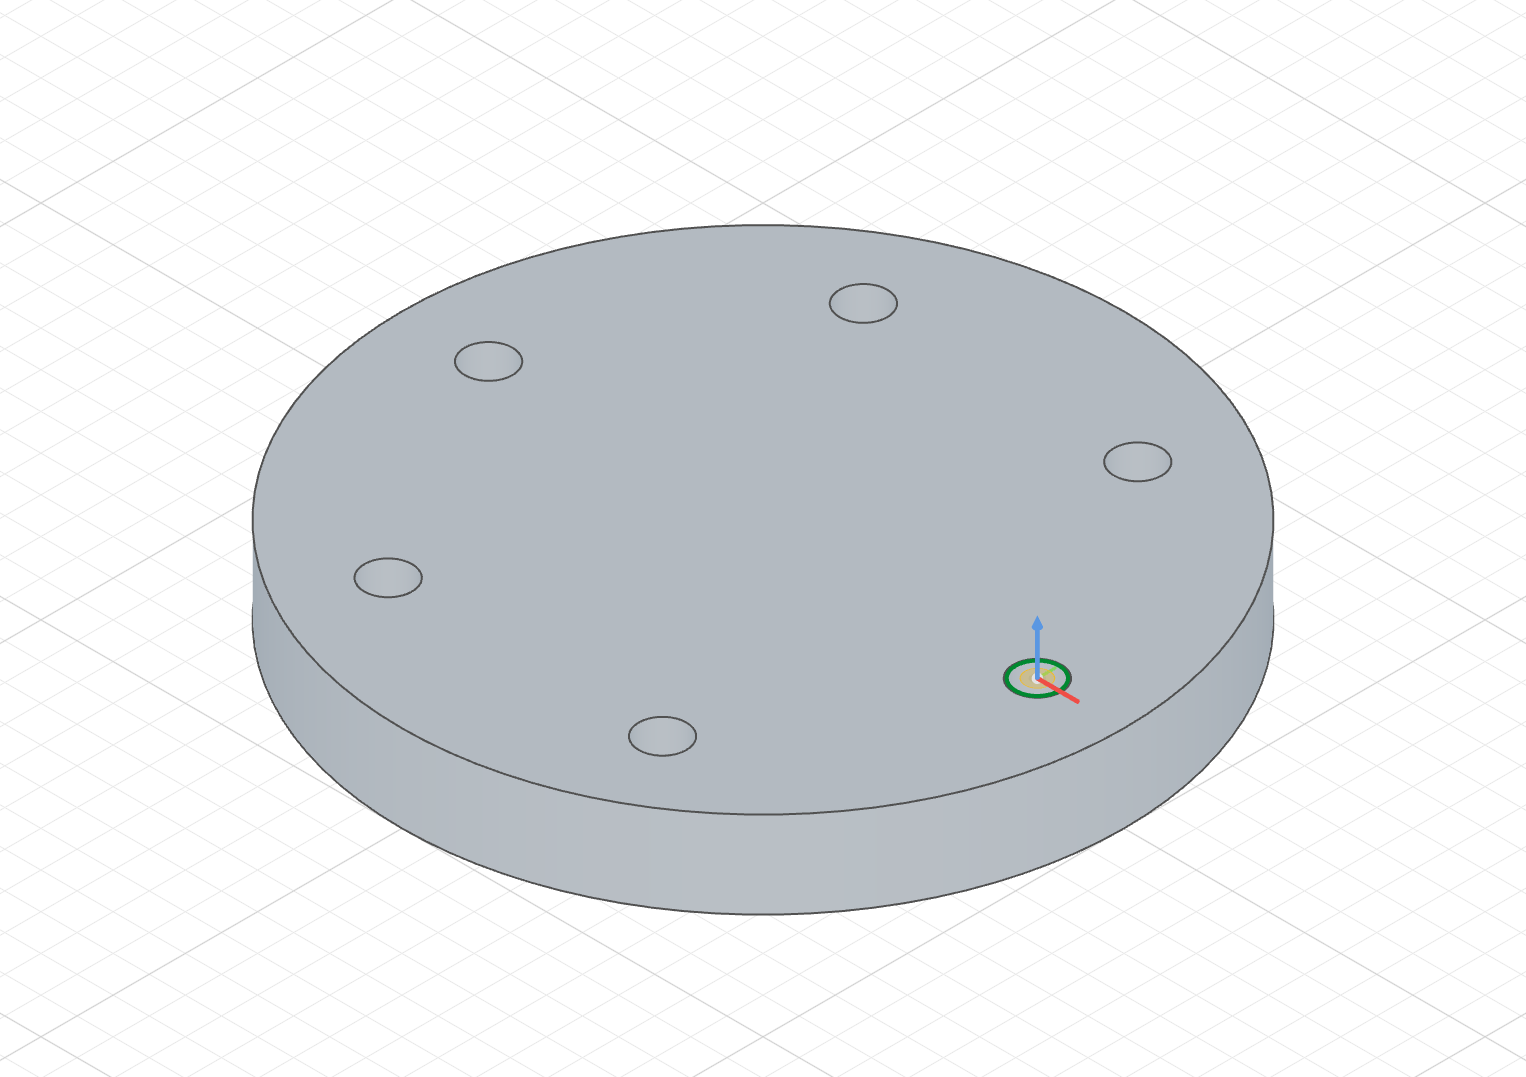
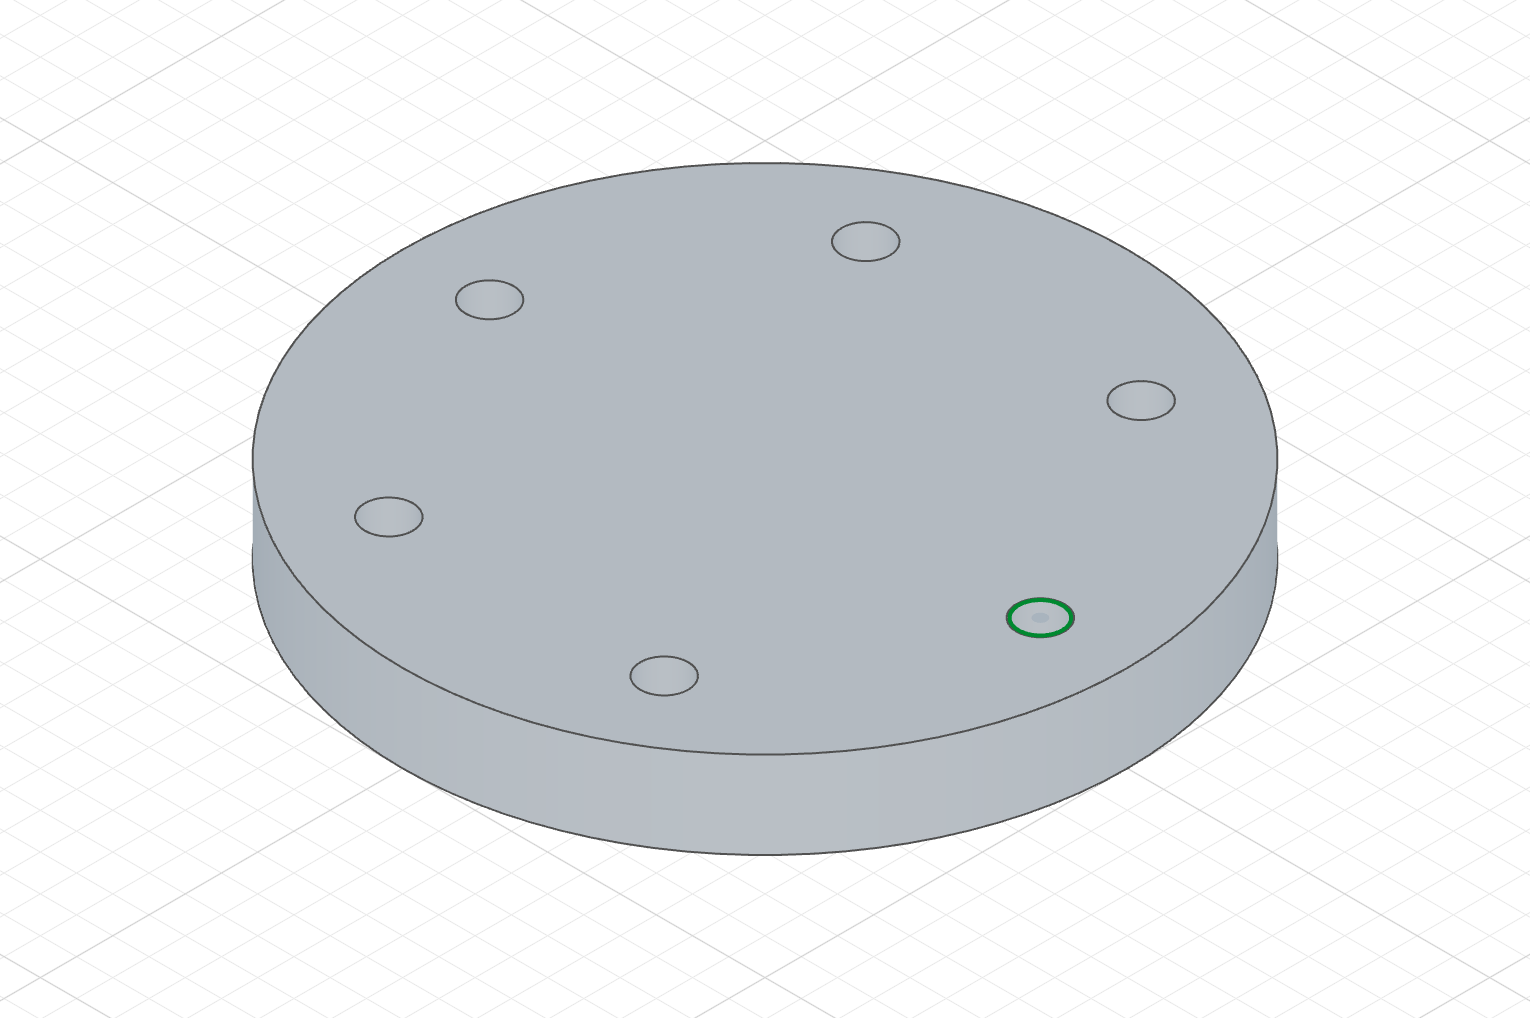
docs(hole): document fastening a clearance hole to another solid and retake the hole screenshots

diff --git a/website/docs/3d-operations/_examples/hole-fasten-tip.js b/website/docs/3d-operations/_examples/hole-fasten-tip.js
@@ -1,0 +1,57 @@
+// @screenshot view iso-ftr hidePositional
+import { sketch, line, point, extrude, hole } from 'fluidcad/core';
+import { coincident, distance, fix, horizontal, vertical } from 'fluidcad/constraints';
+
+// A base block, 40 × 15 and 20 thick: the solid the screw threads into.
+// Both blocks here are the rear half of a joint: their front face runs
+// through the hole axis, so the picture shows the two bores in section.
+sketch("xy", () => {
+    const b = line([-20, 0], [20, 0]);
+    const r = line([20, 0], [20, 15]);
+    const t = line([20, 15], [-20, 15]);
+    const l = line([-20, 15], [-20, 0]);
+    coincident(b.end(), r.start());
+    coincident(r.end(), t.start());
+    coincident(t.end(), l.start());
+    coincident(l.end(), b.start());
+    horizontal(b);
+    vertical(r);
+    horizontal(t);
+    vertical(l);
+    fix(b.start(), [-20, 0]);
+    distance(b.start(), b.end(), 40);
+    distance(r.start(), r.end(), 15);
+});
+const base = extrude(20);
+
+// An 8 mm cover on top of the base. `.new()` keeps it a solid of its own.
+sketch(base.endFaces(), () => {
+    const b = line([-20, 0], [20, 0]);
+    const r = line([20, 0], [20, 15]);
+    const t = line([20, 15], [-20, 15]);
+    const l = line([-20, 15], [-20, 0]);
+    coincident(b.end(), r.start());
+    coincident(r.end(), t.start());
+    coincident(t.end(), l.start());
+    coincident(l.end(), b.start());
+    horizontal(b);
+    vertical(r);
+    horizontal(t);
+    vertical(l);
+    fix(b.start(), [-20, 0]);
+    distance(b.start(), b.end(), 40);
+    distance(r.start(), r.end(), 15);
+});
+const cover = extrude(8).new();
+
+// One point on the cover's top face marks the screw.
+const seat = sketch(cover.endFaces(), () => {
+    const p = point([0, 0]);
+    fix(p, [0, 0]);
+    return { p };
+});
+
+// The tapped hole is 12 deep to the shoulder, measured from the base's top
+// face, with the 118° point of a standard drill below it. `null` in the
+// pitch position keeps the coarse pitch for the size.
+hole('M6', seat.geometries.p).fasten(base, null, 12, 118);

diff --git a/website/docs/3d-operations/_examples/hole-fasten-blind.js b/website/docs/3d-operations/_examples/hole-fasten-blind.js
@@ -1,0 +1,57 @@
+// @screenshot view iso-ftr hidePositional
+import { sketch, line, point, extrude, hole } from 'fluidcad/core';
+import { coincident, distance, fix, horizontal, vertical } from 'fluidcad/constraints';
+
+// A base block, 40 × 15 and 20 thick: the solid the screw threads into.
+// Both blocks here are the rear half of a joint: their front face runs
+// through the hole axis, so the picture shows the two bores in section.
+sketch("xy", () => {
+    const b = line([-20, 0], [20, 0]);
+    const r = line([20, 0], [20, 15]);
+    const t = line([20, 15], [-20, 15]);
+    const l = line([-20, 15], [-20, 0]);
+    coincident(b.end(), r.start());
+    coincident(r.end(), t.start());
+    coincident(t.end(), l.start());
+    coincident(l.end(), b.start());
+    horizontal(b);
+    vertical(r);
+    horizontal(t);
+    vertical(l);
+    fix(b.start(), [-20, 0]);
+    distance(b.start(), b.end(), 40);
+    distance(r.start(), r.end(), 15);
+});
+const base = extrude(20);
+
+// An 8 mm cover on top of the base. `.new()` keeps it a solid of its own.
+sketch(base.endFaces(), () => {
+    const b = line([-20, 0], [20, 0]);
+    const r = line([20, 0], [20, 15]);
+    const t = line([20, 15], [-20, 15]);
+    const l = line([-20, 15], [-20, 0]);
+    coincident(b.end(), r.start());
+    coincident(r.end(), t.start());
+    coincident(t.end(), l.start());
+    coincident(l.end(), b.start());
+    horizontal(b);
+    vertical(r);
+    horizontal(t);
+    vertical(l);
+    fix(b.start(), [-20, 0]);
+    distance(b.start(), b.end(), 40);
+    distance(r.start(), r.end(), 15);
+});
+const cover = extrude(8).new();
+
+// One point on the cover's top face marks the screw.
+const seat = sketch(cover.endFaces(), () => {
+    const p = point([0, 0]);
+    fix(p, [0, 0]);
+    return { p };
+});
+
+// The same clearance hole. The tapped hole now stops 12 into the base,
+// measured from the base's top face, with a flat bottom. `null` in the
+// pitch position keeps the coarse pitch for the size.
+hole('M6', seat.geometries.p).fasten(base, null, 12);

diff --git a/website/docs/3d-operations/_examples/hole-fasten.js b/website/docs/3d-operations/_examples/hole-fasten.js
@@ -1,0 +1,57 @@
+// @screenshot view iso-ftr hidePositional
+import { sketch, line, point, extrude, hole } from 'fluidcad/core';
+import { coincident, distance, fix, horizontal, vertical } from 'fluidcad/constraints';
+
+// A base block, 40 × 15 and 20 thick: the solid the screw threads into.
+// Both blocks here are the rear half of a joint: their front face runs
+// through the hole axis, so the picture shows the two bores in section.
+sketch("xy", () => {
+    const b = line([-20, 0], [20, 0]);
+    const r = line([20, 0], [20, 15]);
+    const t = line([20, 15], [-20, 15]);
+    const l = line([-20, 15], [-20, 0]);
+    coincident(b.end(), r.start());
+    coincident(r.end(), t.start());
+    coincident(t.end(), l.start());
+    coincident(l.end(), b.start());
+    horizontal(b);
+    vertical(r);
+    horizontal(t);
+    vertical(l);
+    fix(b.start(), [-20, 0]);
+    distance(b.start(), b.end(), 40);
+    distance(r.start(), r.end(), 15);
+});
+const base = extrude(20);
+
+// An 8 mm cover on top of the base. `.new()` keeps it a solid of its own.
+sketch(base.endFaces(), () => {
+    const b = line([-20, 0], [20, 0]);
+    const r = line([20, 0], [20, 15]);
+    const t = line([20, 15], [-20, 15]);
+    const l = line([-20, 15], [-20, 0]);
+    coincident(b.end(), r.start());
+    coincident(r.end(), t.start());
+    coincident(t.end(), l.start());
+    coincident(l.end(), b.start());
+    horizontal(b);
+    vertical(r);
+    horizontal(t);
+    vertical(l);
+    fix(b.start(), [-20, 0]);
+    distance(b.start(), b.end(), 40);
+    distance(r.start(), r.end(), 15);
+});
+const cover = extrude(8).new();
+
+// One point on the cover's top face marks the screw.
+const seat = sketch(cover.endFaces(), () => {
+    const p = point([0, 0]);
+    fix(p, [0, 0]);
+    return { p };
+});
+
+// One statement, two holes. The cover takes the M6 clearance hole (Ø6.6).
+// The base it fastens to takes the M6 tapped hole on the same axis: Ø5,
+// the tap drill for M6 × 1, through the whole block.
+hole('M6', seat.geometries.p).fasten(base);

diff --git a/lib/core/hole.ts b/lib/core/hole.ts
@@ -28,7 +28,9 @@ interface HoleFunction {
    * hole (`.clearance('close' | 'normal' | 'loose')`, normal fit by default)
    * or a tap drill (`.tapped()` for the coarse pitch, `.tapped(0.75)` for a
    * fine one). `.counterbore()` and `.countersink()` without values read the
-   * socket-head and flat-head tables for that size. Threads are not modelled
+   * socket-head and flat-head tables for that size. `.fasten(solid)` on a
+   * clearance hole cuts the matching tapped hole into the solid the fastener
+   * threads into. Threads are not modelled
    * yet; the size and pitch stay in the statement for a later thread feature.
    * @param size - A metric or inch fastener size label
    * @param placements - One or more connectors, sketch points or anchored vertices

diff --git a/lib/core/interfaces.ts b/lib/core/interfaces.ts
@@ -1361,7 +1361,7 @@ export interface IHole extends ISceneObject {
   depth(distance: number, tipAngle?: number): this;
 
   /**
-   * Experimental. Names the solid this clearance hole fastens to: that solid
+   * Names the solid this clearance hole fastens to: that solid
    * gets the matching tapped hole on the same axis, cut at the tap-drill
    * diameter for the hole's fastener size. It opens on whichever face the
    * axis meets first and runs through the whole solid, or to a blind depth

diff --git a/llm-docs/api/hole.md b/llm-docs/api/hole.md
@@ -1,7 +1,7 @@
 ---
 id: api/hole
 title: hole(size, ...placements)
-summary: Cuts drilled, clearance or tapped fastener holes at connectors, sketch points or face/edge anchors, with optional counterbore or countersink and blind or through-all termination.
+summary: Cuts drilled, clearance or tapped fastener holes at connectors, sketch points or face/edge anchors, with optional counterbore or countersink, blind or through-all termination, and .fasten() to tap the mating solid of a clearance hole.
 tags: [api, 3d, solid]
 symbols: [hole]
 seeAlso: [api/connector, api/point, api/repeat, api/cut]
@@ -32,10 +32,21 @@ exported from a sketch (`s.geometries.c.center()`, `s.geometries.p` for a
   (a numeric size needs explicit values).
 - `.depth(distance, tipAngle?)` — blind hole: depth to the shoulder, plus a
   drill point of that included angle (118 is a standard drill); omitted = through all.
+- `.fasten(target, pitch?, depth?, tipAngle?)` — clearance holes
+  of a string size only (not a numeric size, not `.tapped()`). `target` is the
+  other solid the fastener threads into: it gets the matching tapped hole on
+  the same axis, at the tap-drill diameter for the size, and is left out of the
+  clearance cut whatever `.scope()` says. `pitch` in mm / threads per inch,
+  omitted or `null` = coarse (write `null` when a depth follows). `depth` =
+  blind depth to the shoulder, measured from the face where the axis enters
+  `target` (not from the placement); omitted = through the whole solid.
+  `tipAngle` = drill point below a blind depth (118), only with a depth. Errors
+  if the axis never reaches `target`.
 - `.scope(...solids)` — which solids are cut (default: all).
 
 Accessors: `faces()` (walls), `edges()` (every rim), `startEdges()` (entry
-rims), `endEdges()` (floor or exit rims). Repeatable with `repeat()`.
+rims), `endEdges()` (floor or exit rims); with `.fasten()` each lists the
+clearance cut's geometry first, then the tapped holes'. Repeatable with `repeat()`.
 
 ## Example
 
@@ -70,6 +81,59 @@ const holes = sketch(plate.endFaces(), () => {
 });
 hole('M6', holes.geometries.p1, holes.geometries.p2).clearance('close').counterbore();
 hole(5, plate.endFaces().center()).depth(6, 118);
+```
+
+## Example: fasten a cover to a base
+
+One clearance hole in the cover; the base gets the M6 tapped hole (Ø5), 12
+deep from its top face with a 118° drill point.
+
+```fluid.js
+import { sketch, line, point, extrude, hole } from "fluidcad/core";
+import { coincident, distance, fix, horizontal, vertical } from "fluidcad/constraints";
+
+sketch("xy", () => {
+  const b = line([-20, -15], [20, -15]);
+  const r = line([20, -15], [20, 15]);
+  const t = line([20, 15], [-20, 15]);
+  const l = line([-20, 15], [-20, -15]);
+  coincident(b.end(), r.start());
+  coincident(r.end(), t.start());
+  coincident(t.end(), l.start());
+  coincident(l.end(), b.start());
+  horizontal(b);
+  vertical(r);
+  horizontal(t);
+  vertical(l);
+  fix(b.start(), [-20, -15]);
+  distance(b.start(), b.end(), 40);
+  distance(r.start(), r.end(), 30);
+});
+const base = extrude(20);
+sketch(base.endFaces(), () => {
+  const b = line([-20, -15], [20, -15]);
+  const r = line([20, -15], [20, 15]);
+  const t = line([20, 15], [-20, 15]);
+  const l = line([-20, 15], [-20, -15]);
+  coincident(b.end(), r.start());
+  coincident(r.end(), t.start());
+  coincident(t.end(), l.start());
+  coincident(l.end(), b.start());
+  horizontal(b);
+  vertical(r);
+  horizontal(t);
+  vertical(l);
+  fix(b.start(), [-20, -15]);
+  distance(b.start(), b.end(), 40);
+  distance(r.start(), r.end(), 30);
+});
+const cover = extrude(8).new();
+const seat = sketch(cover.endFaces(), () => {
+  const p = point([0, 0]);
+  fix(p, [0, 0]);
+  return { p };
+});
+hole('M6', seat.geometries.p).fasten(base, null, 12, 118);
 ```
 
 See [[api/connector]] for holes at a part's mating frames and [[api/repeat]] for bolt circles.

diff --git a/llm-docs/api/types/hole.md b/llm-docs/api/types/hole.md
@@ -15,6 +15,7 @@ interface Hole extends SceneObject {
   counterbore(diameter?: number, depth?: number): this;
   countersink(diameter?: number, angle?: number): this;
   depth(distance: number, tipAngle?: number): this;
+  fasten(target: SceneObject, pitch?: number, depth?: number, tipAngle?: number): this;
   scope(...objects: SceneObject[]): this;
   faces(...indices: number[]): ISelection;
   edges(...indices: number[]): ISelection;
@@ -78,6 +79,22 @@ A blind hole. Without this chain the hole runs through every solid in scope.
 | --- | --- | --- |
 | `distance` | `number` | Depth from the surface to the shoulder (the full-diameter depth) |
 | `tipAngle` | `number` | Drill point included angle below the shoulder (118 for a standard drill); omitted = flat bottom *(optional)* |
+
+### `fasten()`
+
+Names the solid this clearance hole fastens to: that solid
+gets the matching tapped hole on the same axis, cut at the tap-drill
+diameter for the hole's fastener size. It opens on whichever face the
+axis meets first and runs through the whole solid, or to a blind depth
+measured from that face. The solid is left out of the clearance cut.
+Clearance holes of a fastener size only.
+
+| Parameter | Type | Description |
+| --- | --- | --- |
+| `target` | [[api/types/scene-object]] | The solid the fastener threads into |
+| `pitch` | `number` | The thread pitch in mm (metric) or threads per inch (inch); omitted or null = coarse *(optional)* |
+| `depth` | `number` | Blind depth of the tapped hole from the face it enters, to the shoulder; omitted = through all *(optional)* |
+| `tipAngle` | `number` | Drill point included angle below a blind depth (118 for a standard drill); omitted = flat bottom *(optional)* |
 
 ### `scope()`
 
